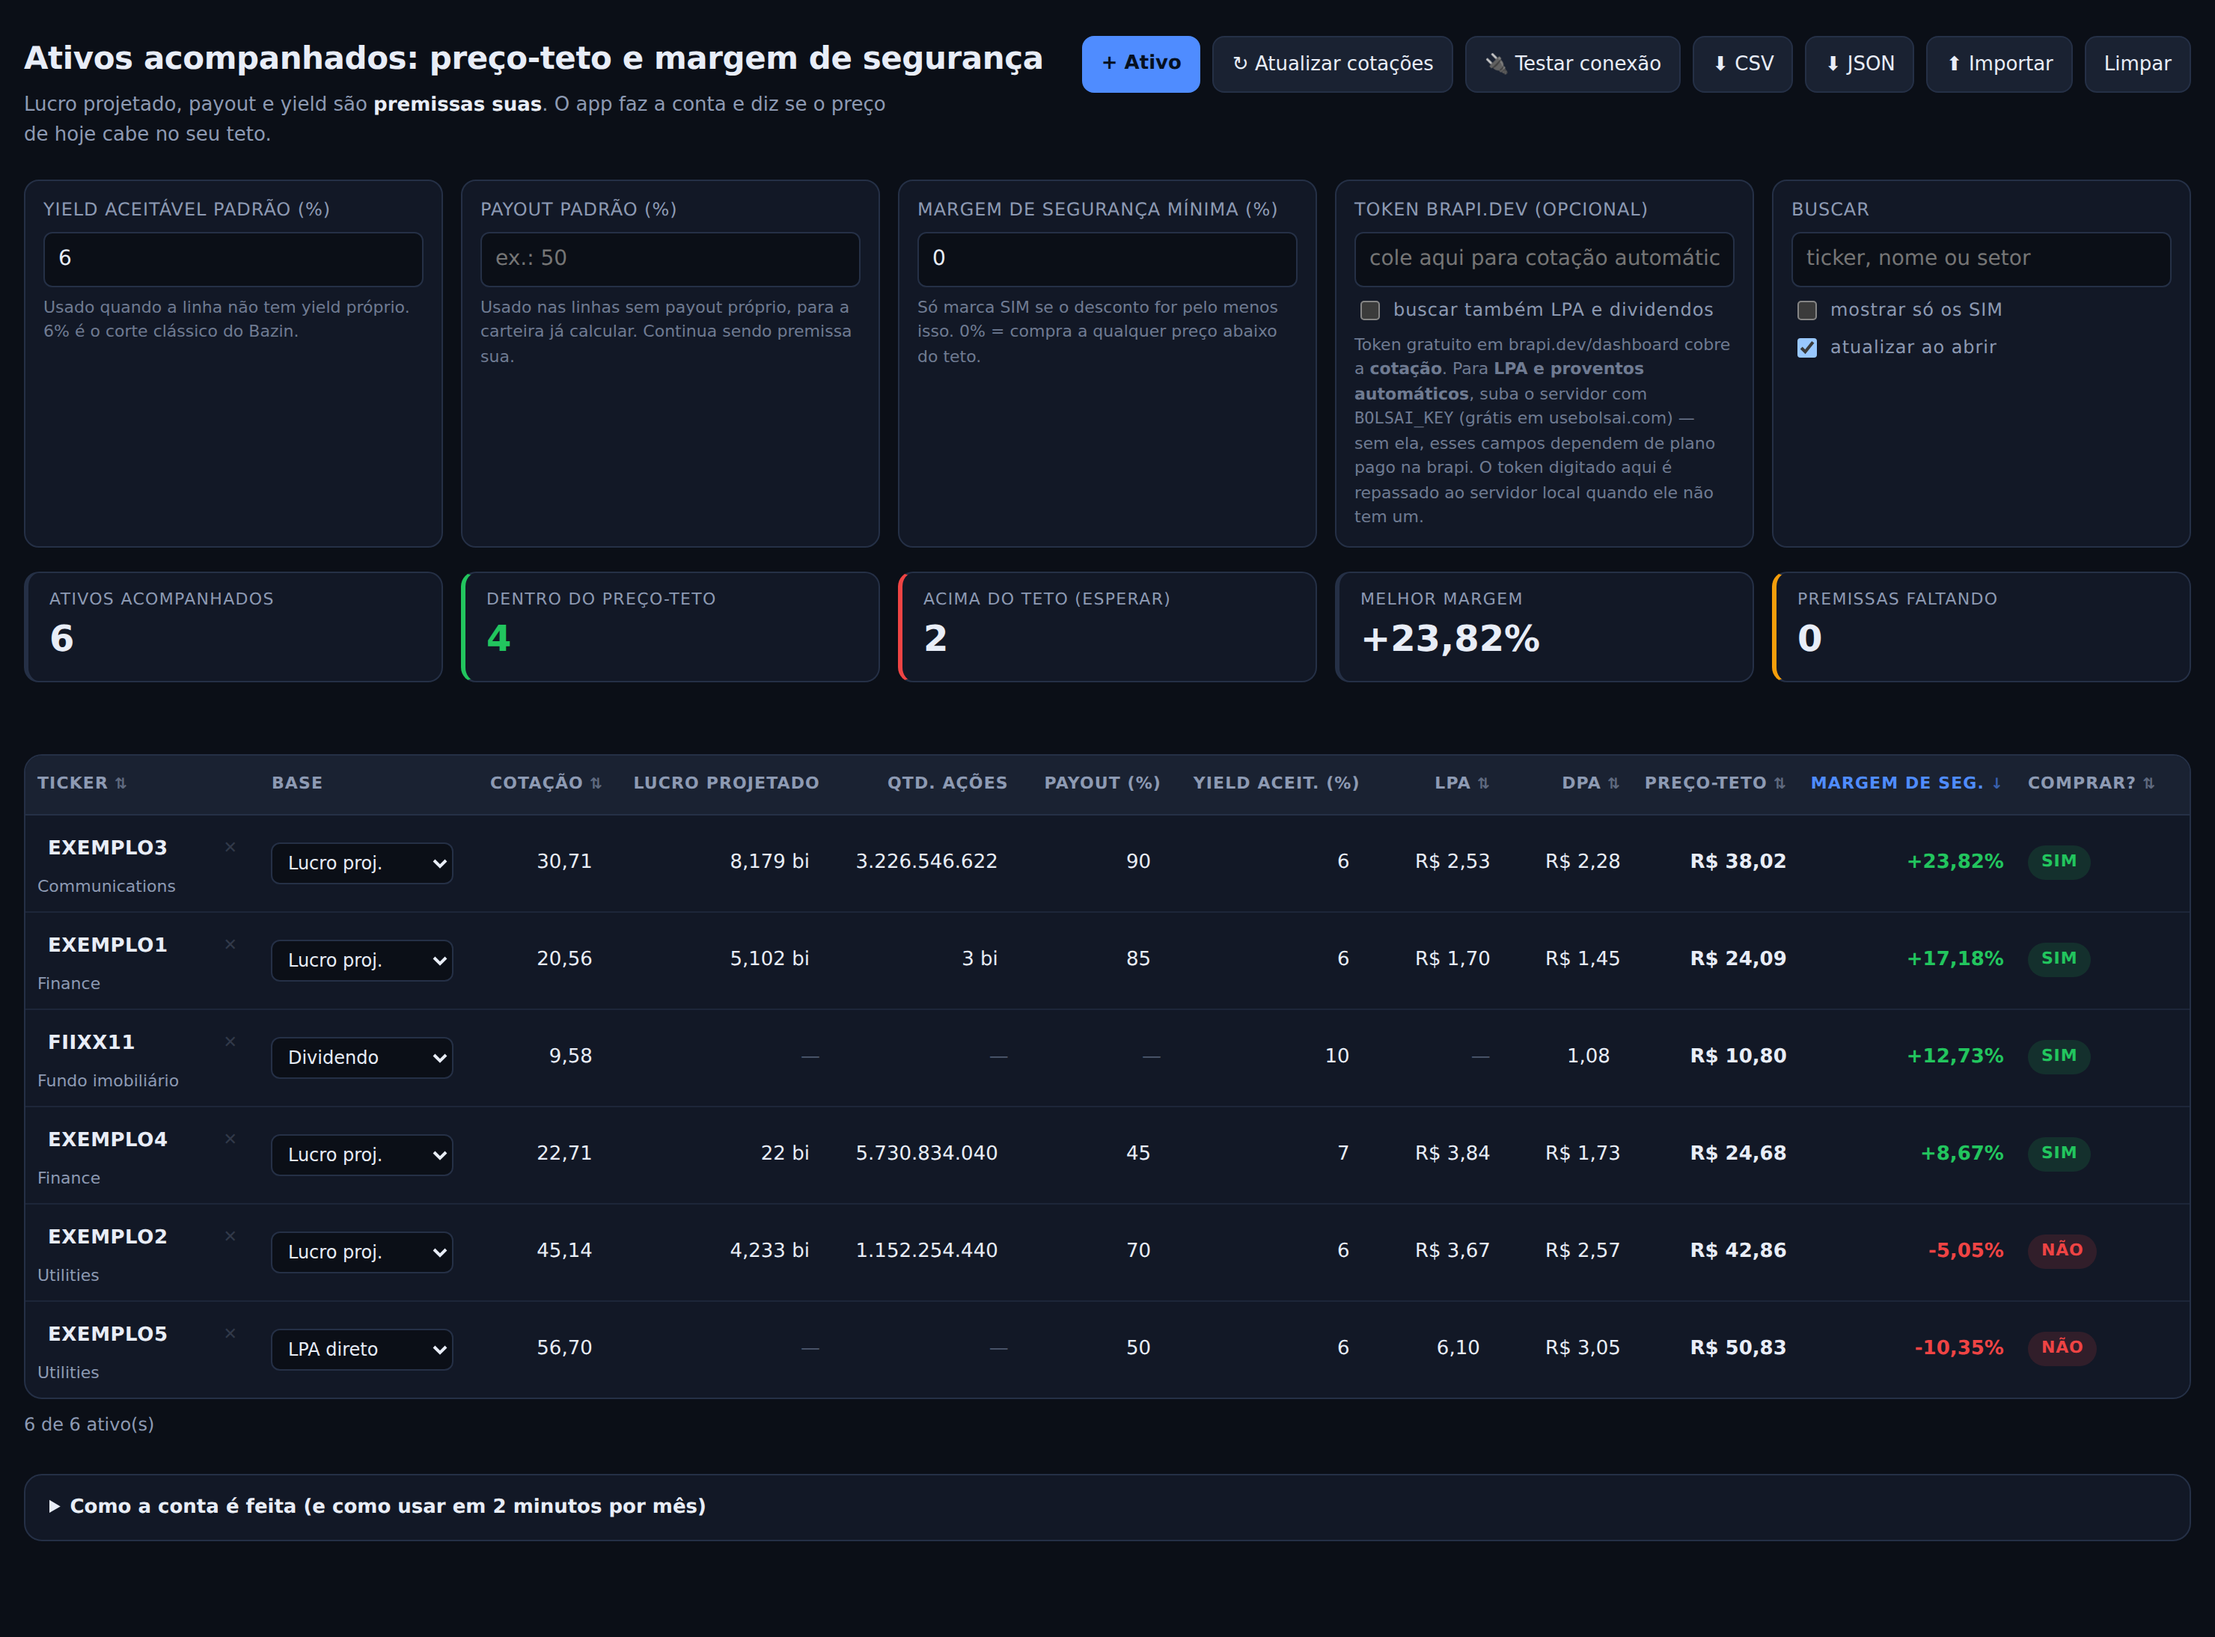
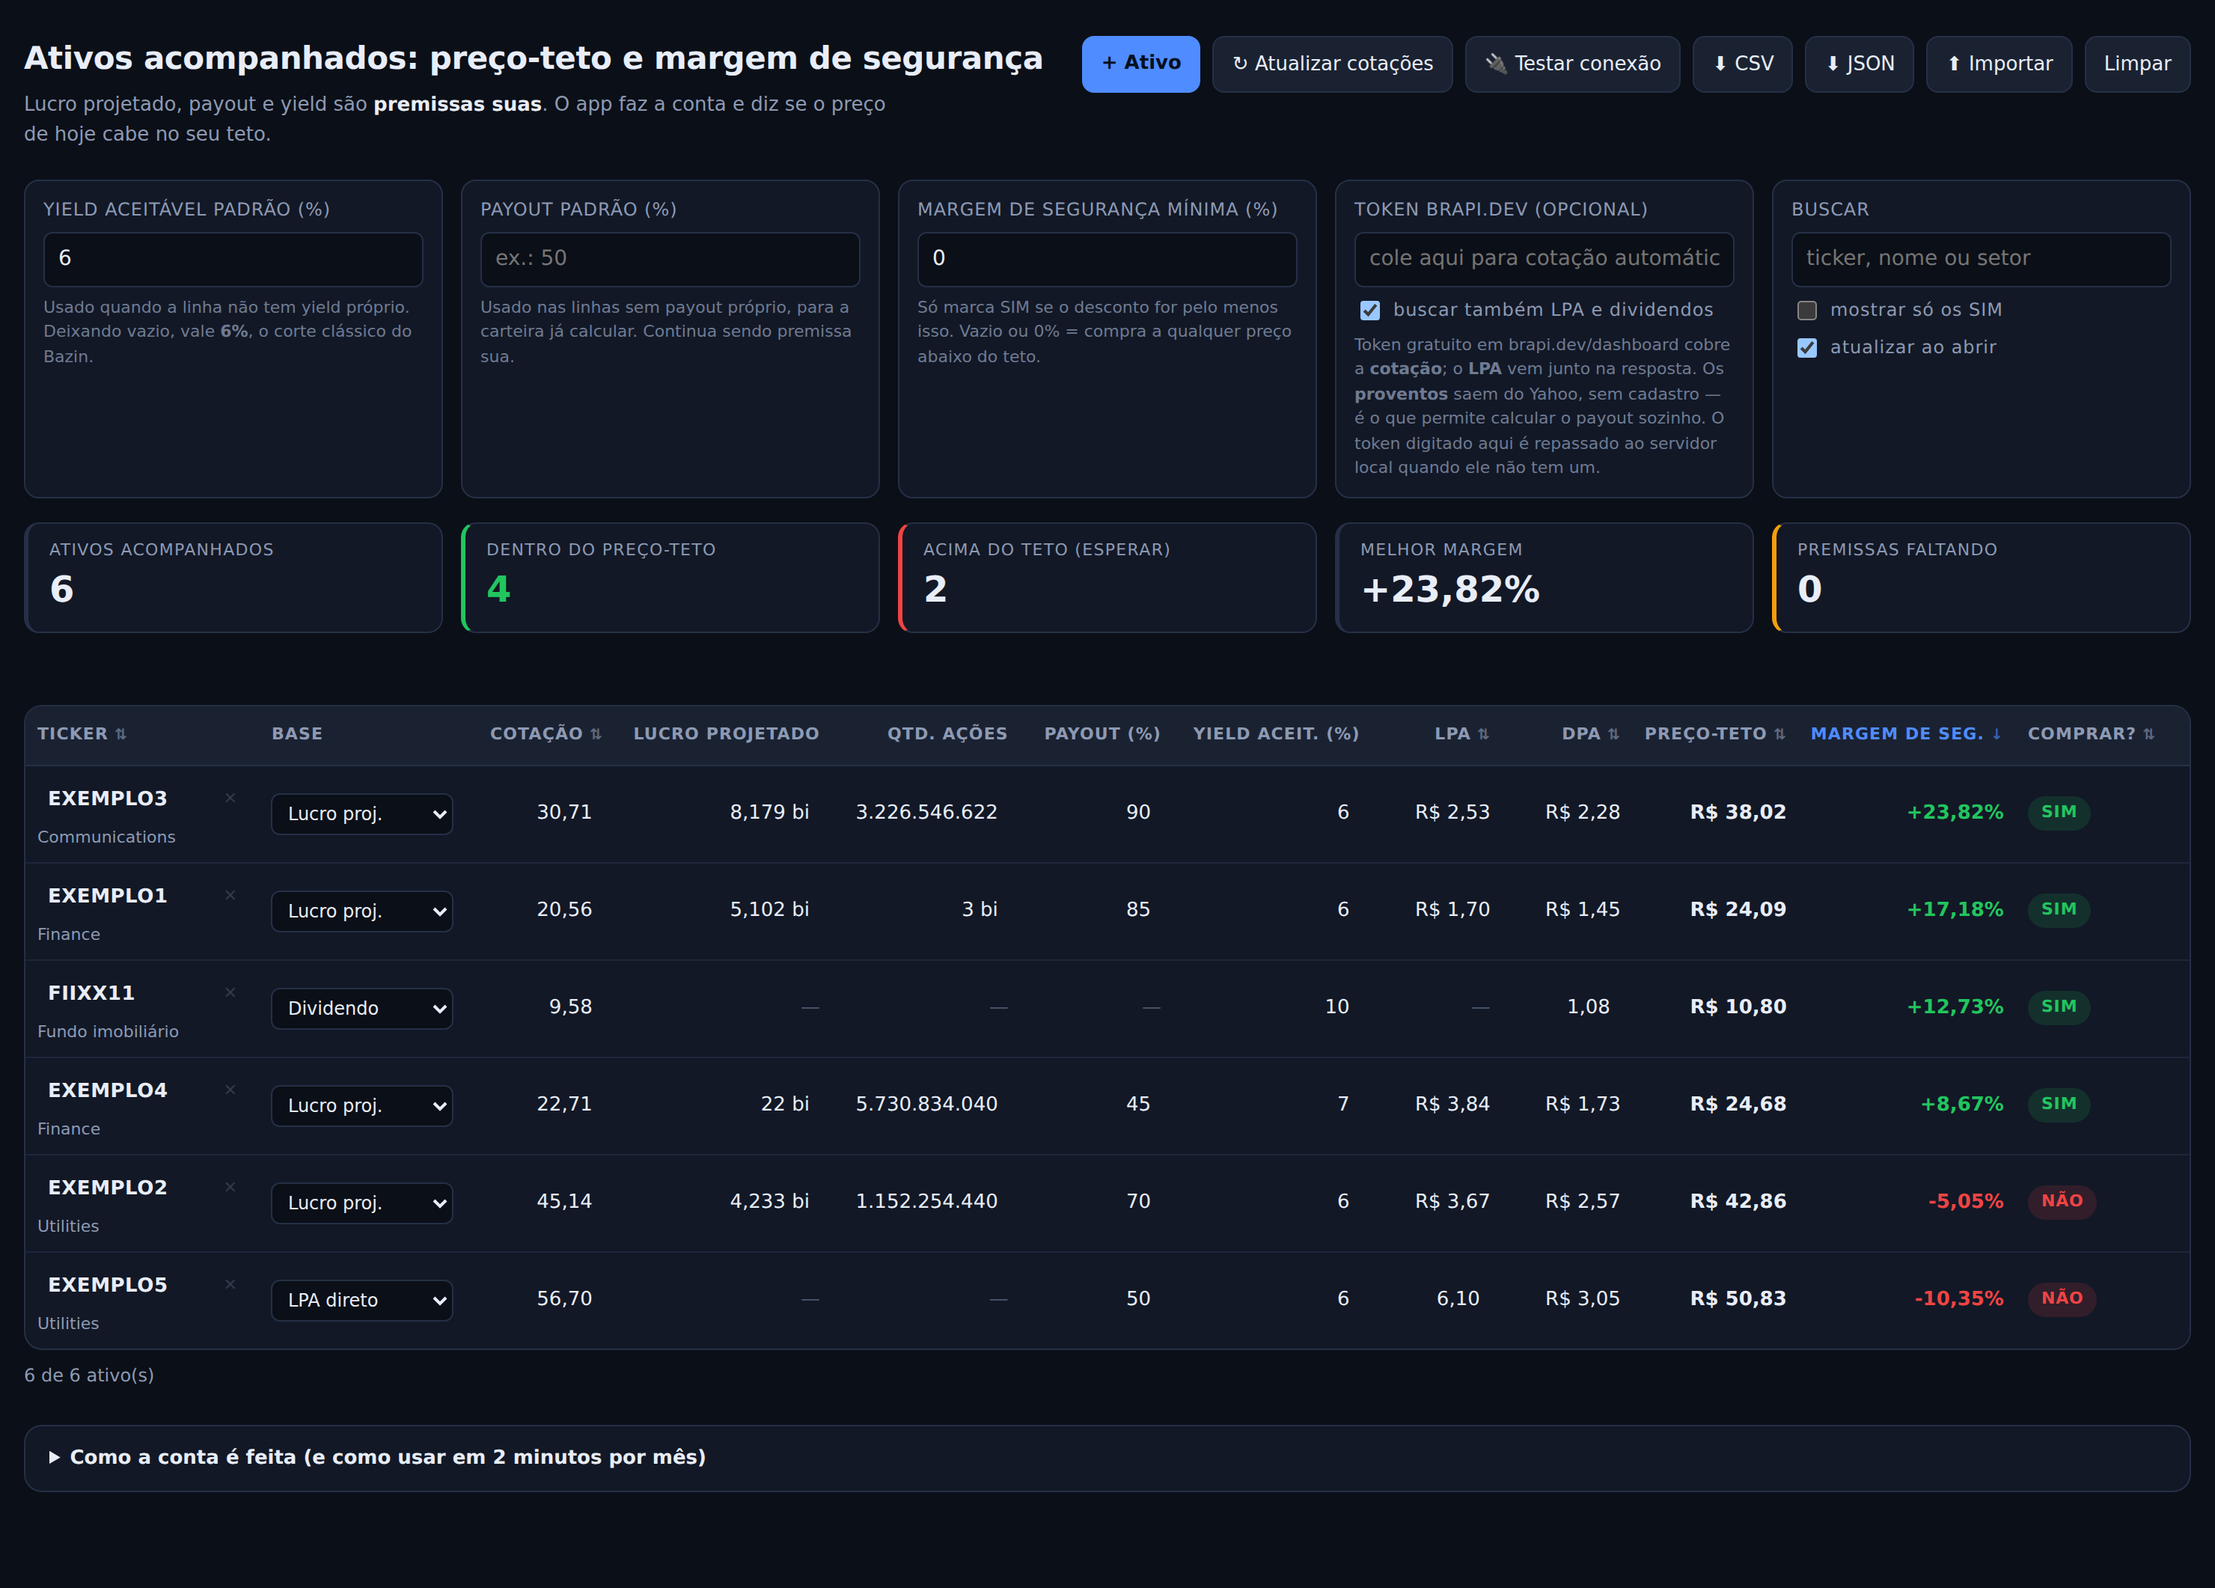
Desbloqueia a carteira: yield com padrão, fundamentos ligados e tabela alinhada
Três defeitos que deixavam a tabela inútil na tela do usuário:

- campo de yield vazio travava TODAS as linhas em "falta yield". O placeholder "6"
  parecia valor preenchido — a mesma armadilha do "0,00" na cotação. Agora vazio
  vale 6% (corte do Bazin), a linha mostra "padrão 6%" quando usa o fallback, e
  yield nunca entra na lista de premissas faltando
- a busca de LPA e proventos vinha desligada, herança de quando dividendo era
  plano pago. Com o Yahoo gratuito, vem ligada: é ela que permite derivar o payout
- a variável celulasLucro era calculada e NUNCA usada: as duas células de lucro e
  quantidade ficaram fixas no template. Sem nenhum ativo em modo "Lucro proj.", o
  cabeçalho escondia as colunas e as linhas continuavam com elas, desalinhando a
  tabela inteira. Os testes não pegavam porque a linha EXEMPLO sempre segurava as
  colunas visíveis — agora há verificação de que cabeçalho e corpo têm o mesmo
  número de células nos dois estados

Resultado no cenário do usuário (6 tickers, nada digitado): premissas faltando vai
de 6 para 0, com preço-teto e veredito em todas as linhas.

Claude-Session: https://claude.ai/code/session_017AhskhMrFGTcoZYypaDFch

diff --git a/index.html b/index.html
@@ -28,21 +28,21 @@
 
 <section class="config">
   <label>Yield aceitável padrão (%)
-    <input id="yield-padrao" inputmode="decimal" placeholder="6">
-    <small>Usado quando a linha não tem yield próprio. 6% é o corte clássico do Bazin.</small>
+    <input id="yield-padrao" inputmode="decimal" placeholder="vazio = 6">
+    <small>Usado quando a linha não tem yield próprio. Deixando vazio, vale <strong>6%</strong>, o corte clássico do Bazin.</small>
   </label>
   <label>Payout padrão (%)
     <input id="payout-padrao" inputmode="decimal" placeholder="ex.: 50">
     <small>Usado nas linhas sem payout próprio, para a carteira já calcular. Continua sendo premissa sua.</small>
   </label>
   <label>Margem de segurança mínima (%)
-    <input id="margem-minima" inputmode="decimal" placeholder="0">
-    <small>Só marca SIM se o desconto for pelo menos isso. 0% = compra a qualquer preço abaixo do teto.</small>
+    <input id="margem-minima" inputmode="decimal" placeholder="vazio = 0">
+    <small>Só marca SIM se o desconto for pelo menos isso. Vazio ou 0% = compra a qualquer preço abaixo do teto.</small>
   </label>
   <label>Token brapi.dev (opcional)
     <input id="token" type="password" placeholder="cole aqui para cotação automática" autocomplete="off">
     <span class="check"><input type="checkbox" id="fundamentos"> buscar também LPA e dividendos</span>
-    <small>Token gratuito em brapi.dev/dashboard cobre a <strong>cotação</strong>. Para <strong>LPA e proventos automáticos</strong>, suba o servidor com <code>BOLSAI_KEY</code> (grátis em usebolsai.com) — sem ela, esses campos dependem de plano pago na brapi. O token digitado aqui é repassado ao servidor local quando ele não tem um.</small>
+    <small>Token gratuito em brapi.dev/dashboard cobre a <strong>cotação</strong>; o <strong>LPA</strong> vem junto na resposta. Os <strong>proventos</strong> saem do Yahoo, sem cadastro — é o que permite calcular o payout sozinho. O token digitado aqui é repassado ao servidor local quando ele não tem um.</small>
   </label>
   <label class="busca">Buscar
     <input id="busca" placeholder="ticker, nome ou setor">

diff --git a/assets/calc.js b/assets/calc.js
@@ -19,6 +19,11 @@
 })(typeof globalThis !== 'undefined' ? globalThis : this, function () {
   'use strict';
 
+  // Corte clássico do método Bazin. Vale quando ninguém informou yield: campo de
+  // configuração vazio não pode travar a carteira inteira — o usuário não tem como
+  // adivinhar que o "6" cinza do campo era só um exemplo.
+  const YIELD_PADRAO = 6;
+
   const MULTIPLICADORES = {
     k: 1e3, mil: 1e3,
     m: 1e6, mi: 1e6, mm: 1e6, milhao: 1e6, milhoes: 1e6,
@@ -87,7 +92,11 @@
     const margemMinima = parseNumero(cfg.margemMinima) || 0;
 
     const cotacao = positivo(parseNumero(ativo.cotacao));
-    const yieldAceitavel = positivo(parseNumero(ativo.yieldAceitavel)) ?? positivo(yieldPadrao);
+    const yieldAceitavel = positivo(parseNumero(ativo.yieldAceitavel))
+      ?? positivo(yieldPadrao)
+      ?? YIELD_PADRAO;
+    const yieldDoFallback = positivo(parseNumero(ativo.yieldAceitavel)) === null
+      && positivo(yieldPadrao) === null;
     const modo = ['dividendo', 'lpa'].includes(ativo.modo) ? ativo.modo : 'lucro';
 
     const lucro = parseNumero(ativo.lucroProjetado);
@@ -133,7 +142,7 @@
     let veredito = 'incompleto';
     const faltando = [];
     if (cotacao === null) faltando.push('cotação');
-    if (!yieldAceitavel) faltando.push('yield');
+
     if (modo === 'dividendo') {
       if (dpa === null) faltando.push('DPA');
     } else {
@@ -154,6 +163,7 @@
       modo,
       cotacao,
       yieldAceitavel,
+      yieldDoFallback,
       lpa,
       dpa,
       precoTeto,
@@ -193,5 +203,5 @@
     };
   }
 
-  return { parseNumero, avaliarAtivo, avaliarCarteira, MULTIPLICADORES };
+  return { parseNumero, avaliarAtivo, avaliarCarteira, MULTIPLICADORES, YIELD_PADRAO };
 });

diff --git a/assets/app.js b/assets/app.js
@@ -197,10 +197,13 @@
           </select>
         </td>
         <td data-rotulo="Cotação atual" class="num">${inputCelula(ativo, 'cotacao', 'placeholder="ex.: 30,50"')}${origem}</td>
-        <td data-rotulo="Lucro projetado" class="num">${p.lucro}</td>
-        <td data-rotulo="Qtd. ações/units" class="num">${p.qtd}</td>
+        ${celulasLucro}
         <td data-rotulo="Payout (%)" class="num">${p.payout}</td>
-        <td data-rotulo="Yield aceitável (%)" class="num">${inputCelula(ativo, 'yieldAceitavel', `placeholder="${fmt0.format(parseNumero(estado.config.yieldPadrao) || 6)}"`)}</td>
+        <td data-rotulo="Yield aceitável (%)" class="num">${inputCelula(ativo, 'yieldAceitavel', `placeholder="${fmt0.format(m.yieldAceitavel)}"`)}${
+          m.yieldDoFallback
+            ? '<span class="sub" title="Sem yield na linha e sem padrão na configuração: vale o corte clássico de 6% do método Bazin.">padrão 6%</span>'
+            : ''
+        }</td>
         <td data-rotulo="LPA" class="num">${p.lpa}</td>
         <td data-rotulo="DPA" class="num">${p.dpa}</td>
         <td data-rotulo="Preço-teto" class="num forte" data-saida="precoTeto">${celulaTeto(m)}</td>

diff --git a/assets/seed.js b/assets/seed.js
@@ -8,8 +8,9 @@
     yieldPadrao: 6,
     margemMinima: 0,
     token: '',
-    // Fundamentos (LPA e dividendos) são de plano pago na brapi; desligado por padrão.
-    fundamentos: false,
+    // Buscar LPA e proventos junto: com o Yahoo como fonte gratuita, não há motivo
+    // para deixar desligado — é o que permite derivar o payout sem o usuário digitar.
+    fundamentos: true,
     // Busca cotações sozinho ao abrir, quando há servidor local ou token.
     autoAtualizar: true,
     ordenarPor: 'margem',

diff --git a/README.md b/README.md
@@ -52,6 +52,17 @@ atualização sozinha — a tabela aparece com o preço de hoje, sem clique. A c
 **atualizar ao abrir** desliga esse comportamento, e a página publicada nunca tenta
 (sem servidor e sem token, não há por onde consultar).
 
+### Nada bloqueia a carteira por campo vazio
+
+**Yield aceitável** vazio na linha e na configuração vale **6%** — o corte clássico do
+Bazin. Antes, campo vazio deixava toda a tabela em "falta yield", e o placeholder 
+parecia um valor preenchido. A linha mostra  quando está usando esse
+fallback. **Margem mínima** vazia vale 0%.
+
+A caixa *buscar também LPA e dividendos* vem **marcada**: com o Yahoo como fonte
+gratuita de proventos, não há motivo para deixar desligada — é o que permite derivar
+o payout sem você digitar nada.
+
 ### Payout: derivado antes de ser premissa
 
 A ordem é: o payout **da linha** → o **payout padrão** da carteira → o **payout de
@@ -349,8 +360,8 @@ Digite como for mais natural — o app entende formato brasileiro e atalhos de e
 ## Testes
 
 ```bash
-npm test          # 194 testes de cálculo, cotação, bolsai, servidor e CLI (node puro)
-npm run test:ui   # 99 verificações de interface com Chromium (precisa de playwright-core)
+npm test          # 197 testes de cálculo, cotação, bolsai, servidor e CLI (node puro)
+npm run test:ui   # 102 verificações de interface com Chromium (precisa de playwright-core)
 ```
 
 Os testes de cálculo conferem as linhas da planilha que serviu de referência,
